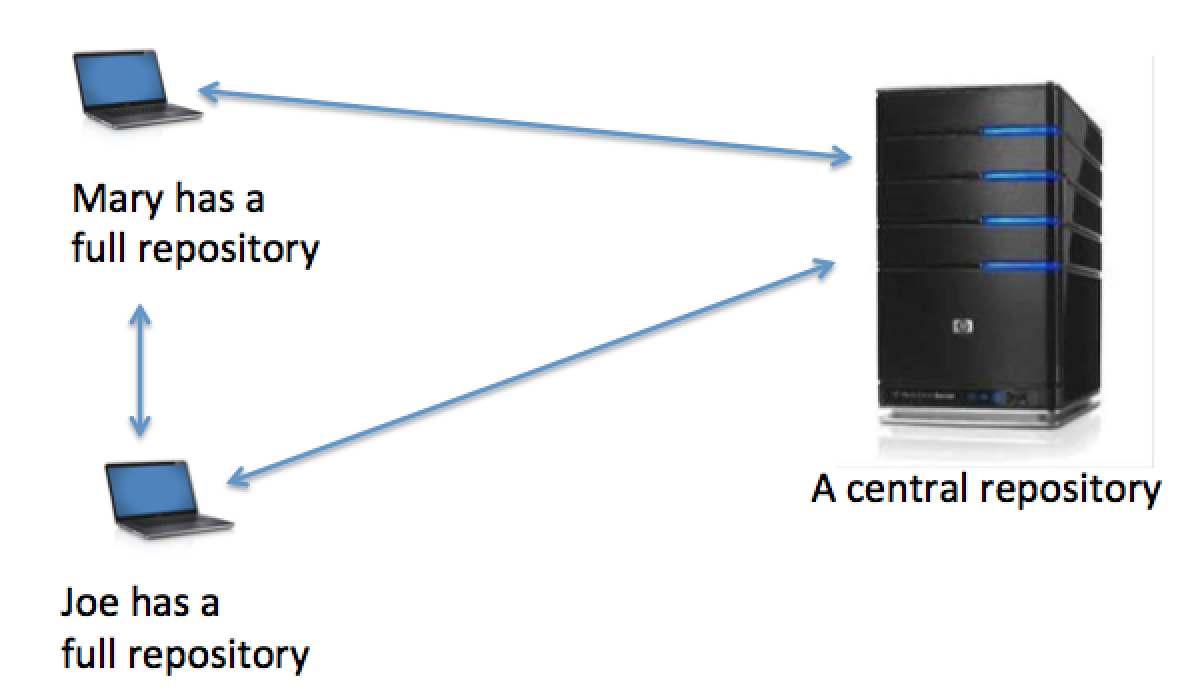
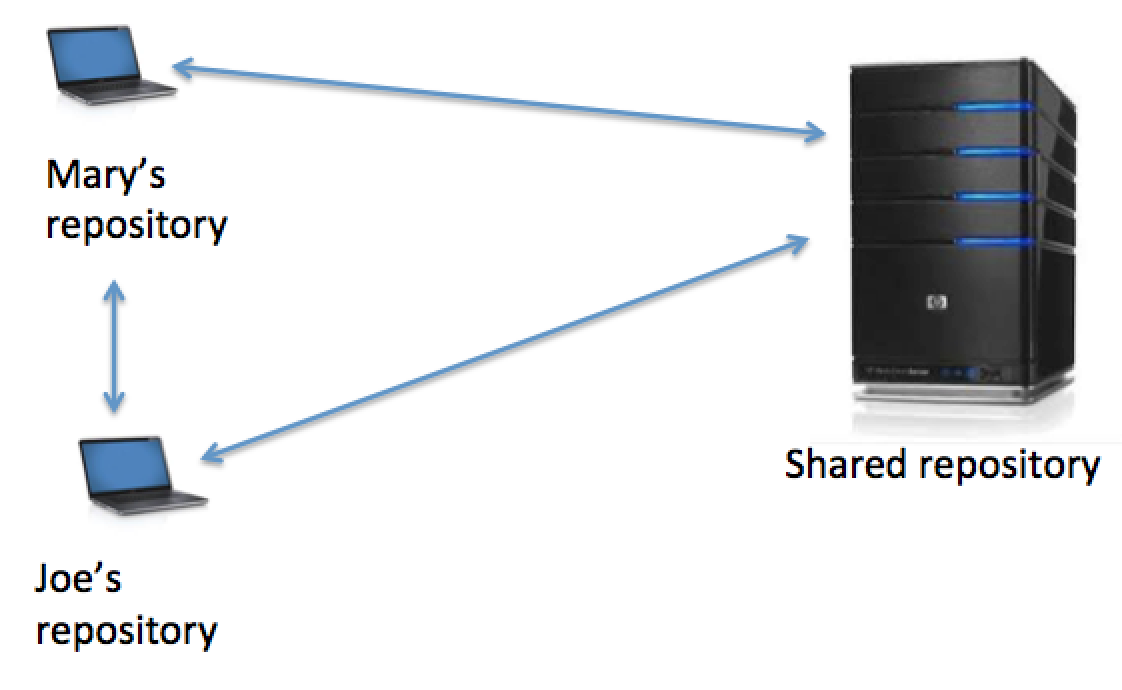
book generated and deployed at 02/08/2015-18:49:56

Changed region(s): [[0.0312, 0.0304, 0.9982, 0.7913], [0.0312, 0.8217, 0.2807, 0.9739]]

diff --git a/Appendix_A.html b/Appendix_A.html
@@ -4,7 +4,7 @@
 <meta http-equiv="Content-Type" content="text/html; charset=UTF-8">
 <meta name="generator" content="Asciidoctor 0.1.4">
 <meta name="viewport" content="width=device-width, initial-scale=1.0">
-<title>Appendix. Version Control and Publishing Code to GitHub</title>
+<title>Appendix. Basics of the Version Control System Git</title>
 <style>
 /*! normalize.css v2.1.2 | MIT License | git.io/normalize */
 /* ========================================================================== HTML5 display definitions ========================================================================== */
@@ -487,19 +487,16 @@ p { margin-bottom: 1.25rem; }
 </div>
 <div id="content">
 <div class="sect1">
-<h2 id="_appendix-version-control-and-publishing-code-to-github"><a class="anchor" href="#_appendix-version-control-and-publishing-code-to-github"></a>Appendix. Version Control and Publishing Code to GitHub</h2>
+<h2 id="_appendix-basics-of-the-version-control-system-git"><a class="anchor" href="#_appendix-basics-of-the-version-control-system-git"></a>Appendix. Basics of the Version Control System Git</h2>
 <div class="sectionbody">
 <div class="paragraph">
 <p>So you wrote you great application, and it worked as expected. Sometime later you&#8217;ve got an idea how to make it even better. After several hours of making changes in your code you&#8217;ve noticed that the application has new bugs in the code that was working fine yesterday. But where is that yesterday&#8217;s version of the code that was working fine? Can you undo (<em>rollback</em>) the latest changes that broke the code?</p>
 </div>
 <div class="paragraph">
-<p>Many years ago programmers simply were creating backup copies of their code now and then. After some time their hard drives and USB drives would have multiple folders named like <em>TicTacToe_Feb_1</em>, <em>TicTacToe_Feb_5</em>, <em>TicTacToe_Feb_20</em> an so on.</p>
+<p>Many years ago programmers simply were creating backup copies of their code now and then. After some time their hard drives and USB drives would have multiple folders named like <em>TicTacToe_Feb_1</em>, <em>TicTacToe_Feb_5</em>, <em>TicTacToe_Feb_20</em> an so on. But programmers often work in teams, and what if Joe and Mary are working on the same application? How to make sure that Joe&#8217;s and Mary&#8217;s computers have the working copy of the application with the ability to keep the history of code changes and rollback to a working version if need be?</p>
 </div>
 <div class="paragraph">
-<p>But programmers often work in teams, and what if Joe and Mary are working on the same application? How to make sure that Joe&#8217;s and Mary&#8217;s computers have the working copy of the application with the ability to keep the history of code changes and rollback to a working version if need be?</p>
-</div>
-<div class="paragraph">
-<p>There are special web hosting facilities called <em>source code repositories</em>, where Joe and Mary can safely keep their application code. There is also a special software called <em>version control systems</em> that allows to keep track of different versions of the source code stored in such common repositories.</p>
+<p>There are special web hosting facilities called <em>source code repositories</em>, where Joe and Mary can safely keep their application code. There is also a special software called Version Control Systems (VCS) that allows to keep track of different versions of the source code stored in such common repositories.</p>
 </div>
 <div class="paragraph">
 <p>Software developers make changes in their local copies of the application&#8217;s code, and test them. When they believe that their local version of the application works fine, they <em>commit</em> their latest code to the source code repository. If Mary has committed her changes, Joe can <em>check out</em> the latest code from the repository to his computer. Mary&#8217;s changes are merged with Joe&#8217;s ones on his computer.</p>
@@ -508,13 +505,13 @@ p { margin-bottom: 1.25rem; }
 <p>At this point Joe has the latest Mary&#8217;s code, but she doesn&#8217;t have the latest Joe&#8217;s code changes. WHen Joe decides to commit his latest code to the repository, Mary can check them out to her computer.</p>
 </div>
 <div class="paragraph">
-<p>In this appendix I&#8217;ll explain how to work with a popular version control system called Git, and with a code hosting
-facility called GitHub. Version control systems are used by programmers writing code in any languages, not only in Java. I can tell you more - I was using Git as a repository of the drafts of all chapters of this book, and you can find them on the GitHub at <a href="https://github.com/yfain/Java4Kids_NoStarchPress">https://github.com/yfain/Java4Kids_NoStarchPress</a>.  But understanding how version control systems works is very important - that&#8217;s why I included this Appendix in the book about Java.</p>
+<p>In this appendix I&#8217;ll introduce you to a popular VCS called Git, and to the code hosting
+facility called GitHub. Version control systems are used by programmers writing code in any languages, not only in Java. I can tell you more - I was using Git as a repository of the drafts of all chapters of this book, and you can find them on the GitHub at <a href="https://github.com/yfain/Java4Kids_NoStarchPress">https://github.com/yfain/Java4Kids_NoStarchPress</a>.  But understanding how VCS works is very important - that&#8217;s why I included this Appendix in the book about Java.</p>
 </div>
 <div class="sect2">
 <h3 id="_two-types-of-version-control-systems"><a class="anchor" href="#_two-types-of-version-control-systems"></a>Two Types of Version Control Systems</h3>
 <div class="paragraph">
-<p>There are two types of version control systems: centralized and distributed. With centralized systems the source code repository is stored a server that has the latest version of the application as well as all historical files committed by developers in the past.</p>
+<p>There are two types of VCS: centralized and distributed. With centralized systems the source code repository is stored a server that has the latest version of the application as well as all historical files committed by developers in the past.</p>
 </div>
 <div id="FIG14-1" class="imageblock">
 <div class="content">
@@ -522,10 +519,10 @@ facility called GitHub. Version control systems are used by programmers writing 
 </div>
 </div>
 <div class="paragraph">
-<p>If Pete, the new programmer, joins the team, he&#8217;d need to check out the latest code from the repository and start making his code modifications on his computer. Some popular centralized version control systems are CVS, SVN, Perforce.</p>
+<p>If Pete, the new programmer, joins the team, he&#8217;d need to check out the latest code from the repository and start making his code modifications on his computer. Some popular centralized VCS are CVS, SVN, Perforce.</p>
 </div>
 <div class="paragraph">
-<p>Distributed version control systems store the latest version of the code as well as all historical files on each programmer&#8217;s computer. Popular distributed version control systems are Git, Mercurial, and Bazaar. We&#8217;ll use Git. Technically, if you work alone, you can install Git on your computer and have your private a version control system. But we usually work in teams, so the following diagram shows three computers - one central repository on the right and to local repositories (Mary&#8217;s and Joe&#8217;s) on the left.</p>
+<p>Distributed VCS store the latest version of the code as well as all historical files on each programmer&#8217;s computer. Popular distributed VCS are Git, Mercurial, and Bazaar. We&#8217;ll use Git. Technically, if you work alone, you can install Git on your computer and have your private VCS. But we usually work in teams, so the following diagram shows three computers - one shared repository on the right and to local repositories (Mary&#8217;s and Joe&#8217;s) on the left.</p>
 </div>
 <div id="FIG14-2" class="imageblock">
 <div class="content">
@@ -533,19 +530,20 @@ facility called GitHub. Version control systems are used by programmers writing 
 </div>
 </div>
 <div class="paragraph">
-<p>Each repository has all historical updates made by Joe and Mary. With centralized version control systems Mary and Joe can exchange code only through the central repository, but with distributed systems they can exchange the code directly. Let&#8217;s see how to create the code repository of your computer that&#8217;s controlled by Git.</p>
+<p>Each repository has all historical updates made by Joe and Mary. With centralized VCS Mary and Joe can exchange code only through the central repository, but with distributed systems they can exchange the code directly. Let&#8217;s see how to create the code repository of your computer that&#8217;s controlled by Git.</p>
 </div>
 </div>
 <div class="sect2">
 <h3 id="_introduction-to-git"><a class="anchor" href="#_introduction-to-git"></a>Introduction to Git</h3>
 <div class="paragraph">
-<p>Git is a free distributed version control system, which you should download and install from <a href="http://git-scm.com">http://git-scm.com</a>. There is a chance that your computer already have Git installed, and you can see if this is the case by opening a Command or Terminal window and entering the <em>git</em> command. If you see a list of available Git commands, you already have it. But still, I&#8217;d suggest to install the latest Git version by following <a href="http://git-scm.com/book/en/v2/Getting-Started-Installing-Git">these instructions</a> for your operational system.</p>
+<p>Git is a free distributed VCS, which you can download and install from <a href="http://git-scm.com">http://git-scm.com</a>. There is a chance that your computer already has Git installed, and you can check it out by opening a Command or Terminal window and typing the command <em>git</em> followed by pressing the Enter key. If these actions print a list of available Git commands, you already have Git installed.
+But still, I&#8217;d suggest to install the latest Git version by following <a href="http://git-scm.com/book/en/v2/Getting-Started-Installing-Git">these instructions</a> for your operational system.</p>
 </div>
 <div class="paragraph">
-<p>There are several GUI tools created for working with Git repositories, but we&#8217;ll be using simple Command or Terminal window for performing all commands. After the installation is complete, enter the command <em>git --version</em>, and you&#8217;ll see which version of Git you have. At the time of this writing it&#8217;s 2.3.</p>
+<p>There are several GUI tools created for working with Git repositories, but we&#8217;ll be using simple Command or Terminal window for performing all commands. After the installation is complete, enter the command <em>git --version</em>, and you&#8217;ll see which version of Git you have.</p>
 </div>
 <div class="paragraph">
-<p>The next step is to introduce yourself to Git by providing your name and the email address. Typically you&#8217;ll be running the <em>git</em> program followed by the command name, which may have various options that start with <em>--</em> or <em>-</em>. To introduce yourself to Git, use the <em>config</em> command with the <em>--global</em> option.</p>
+<p>The next step is to introduce yourself to Git by providing your name and the email address. Typically you&#8217;ll be running the <em>git</em> program followed by the command name, which may have various options that start with <em>--</em> or <em>-</em>. To introduce yourself to Git, use the <em>config</em> command with the <em>--global</em> option. This is how I did it:</p>
 </div>
 <div class="listingblock">
 <div class="content">
@@ -554,19 +552,162 @@ git config --global user.email "yakovfain@gmail.com"</code></pre>
 </div>
 </div>
 <div class="paragraph">
-<p>Committing code to Git</p>
+<p>Later on, when you&#8217;ll be opening a GitHub account you&#8217;ll need to use the same email as you used with the <em>config</em> command above. The Git is ready to manage your projects. Now let&#8217;s create a Git repository for a specific project and learn how to work with it.</p>
 </div>
 </div>
 <div class="sect2">
-<h3 id="_branching"><a class="anchor" href="#_branching"></a>Branching</h3>
+<h3 id="_creating-a-new-git-repository"><a class="anchor" href="#_creating-a-new-git-repository"></a>Creating a New Git Repository</h3>
 <div class="paragraph">
-<p>You may ask, "What if Mary want to add a new feature to the application, but she&#8217;s afraid that her new code may introduce bugs in the working code?" There is a solution to this - Mary can create her own <em>branch</em> which will keep her experimental code separately. Every new feature can live in its own branch.</p>
+<p>For showing you how to use Git, I&#8217;ll create a new folder called <em>gitIntro</em> and will copy there the files <em>Pet.java</em>, <em>Fish.java</em>, and <em>PetMaster.java</em> from Chapter 3. Then I&#8217;ve opened a Terminal window and created a Git repository by entering the command <em>git init</em>. Now the content of my <em>gitIntro</em> folder looked as follows:</p>
+</div>
+<div id="FIG14-3" class="imageblock">
+<div class="content">
+<img src="./images/fig_14_git_init.png" alt="fig 14 git init">
+</div>
+</div>
+<div class="paragraph">
+<p>Now it has my Java classes and a directory called <em>.git</em>, which is a Git repository for my <em>gitIntro</em> project. This directory contains a database to store all the changes I&#8217;ll be making to my Java classes plus the information about the code branches that we&#8217;ll discuss a bit later.</p>
+</div>
+</div>
+<div class="sect2">
+<h3 id="_selected-git-commands"><a class="anchor" href="#_selected-git-commands"></a>Selected Git Commands</h3>
+<div class="paragraph">
+<p>Git has a couple of dozens commands, but knowing just a half dozen of commands may be enough for your projects. I&#8217;ll you several commands that I use daily. Each command may be issued with several options. I&#8217;ll just show you simple ways to run the commands that will get you started with Git. For more detailed coverage of all Git features and commands you&#8217;ll need to study <a href="http://git-scm.com/doc">online documentation</a>.</p>
+</div>
+<div class="sect3">
+<h4 id="_the-status-command"><a class="anchor" href="#_the-status-command"></a>The status Command</h4>
+<div class="paragraph">
+<p>I always start working with Git by opening my project directory and typing <em>git status</em>. Let&#8217;s do the same in the directory <em>gitIntro</em>. I&#8217;ve never committed to my brand new code repository yet, and Git will respond with the following status:</p>
+</div>
+<div id="FIG14-4" class="imageblock">
+<div class="content">
+<img src="./images/fig_14_git_status.png" alt="fig 14 git status">
+</div>
+</div>
+<div class="paragraph">
+<p>Note the first statement indicating that I work with the code branch called master. At this point I have no any other branches. The file names are displayed in red, which means that they are either new to Git or have been modified after the last commit to the repository.</p>
+</div>
+</div>
+<div class="sect3">
+<h4 id="_the-add-command"><a class="anchor" href="#_the-add-command"></a>The add Command</h4>
+<div class="paragraph">
+<p>Adding files to a Git repository is done by the command <em>add</em>. I was learning Git by watching training videos recorded by Git engineers, and they&#8217;ve compared the <em>add</em> command with the process of adding items to the shopping cart in a supermarket. There are lots of produce on the shelves, but you pick only selected ones by placing them into your cart. Similarly, you have lots of files in your folder(s), but you may want to add only selected ones to the git repository, for example <em>git add Fish.java</em>.</p>
+</div>
+<div class="paragraph">
+<p>You can also add all new or modified files in one shot by executing the command <em>git add --all</em>. After running this command you&#8217;ll get the following output:</p>
+</div>
+<div id="FIG14-5" class="imageblock">
+<div class="content">
+<img src="./images/fig_14_git_add_all.png" alt="fig 14 git add all">
+</div>
+</div>
+<div class="paragraph">
+<p>If you want to know which options exist for a command, jut enter <em>git --help</em> followed by a command name, for example, <em>git --help add</em>. To quit the help more just enter the letter <em>q</em> in the Command window.</p>
+</div>
+</div>
+<div class="sect3">
+<h4 id="_the-commit-command"><a class="anchor" href="#_the-commit-command"></a>The commit Command</h4>
+<div class="paragraph">
+<p>Now all Java files are shown in green, which means that these files are ready to be committed to the Git database. If we&#8217;ll continue using the analogy with a supermarket, committing is similar to paying for the items in your shopping cart.</p>
+</div>
+<div class="paragraph">
+<p>But when you pay at the cash register, you get a receipt, right? On the same note, when you issue a <em>commit</em> command you need to write a comment about what are you committing. Programmers make multiple commits over the life of each project, and such comments represent sort of a log that indicates the progress.</p>
+</div>
+<div class="paragraph">
+<p>For example, you can issue a command <em>git commit -m "initial commit of the classes Fish, Pet, and PetMaster"</em>. The <em>-m</em> option means that a message describing the commit follows in the double quotes.</p>
+</div>
+<div id="FIG14-6" class="imageblock">
+<div class="content">
+<img src="./images/fig_14_git_commit.png" alt="fig 14 git commit">
+</div>
+</div>
+<div class="paragraph">
+<p>If you&#8217;ll enter the command <em>git status</em> again you&#8217;ll see the massage that there is nothing to commit. No wonder, I just committed three files and haven&#8217;t modified them yet.</p>
+</div>
+<div id="FIG14-7" class="imageblock">
+<div class="content">
+<img src="./images/fig_14_git_nothing_to_commit.png" alt="fig 14 git nothing to commit">
+</div>
+</div>
+<div class="paragraph">
+<p>Now let me make a small change in the file <em>PetMaster.java</em> - I&#8217;ll just modify a comment at the top of this file. Initially the comment read "Created by NewProgrammer on 3/28/15." I&#8217;ll change the text to "Created by Yakov on 3/28/15." Running the <em>git status</em> command again will produce a different output:</p>
+</div>
+<div id="FIG14-8" class="imageblock">
+<div class="content">
+<img src="./images/fig_14_git_status_changed.png" alt="fig 14 git status changed">
+</div>
+</div>
+<div class="paragraph">
+<p>Git knows that the <em>PetMaster.java</em> has been changed, but until I issue the command <em>add</em> for this file (or all files), Git won&#8217;t track the changes in the current version of <em>PetMaster.java</em>. In the supermarket setup, it&#8217;s a situation when the product is displayed on the shelf, but has not been added to your shopping cart yet. The following two commands will save my latest change in the Git database (a.k.a. index):</p>
+</div>
+<div class="listingblock">
+<div class="content">
+<pre class="highlight"><code class="html language-html">git add PetMaster.java
+git commit -m "Modified the opening comment in PetMaster.java"</code></pre>
+</div>
+</div>
+<div class="paragraph">
+<p>After committing all the changes <em>git status</em> will tell us again that there is nothing to commit, and the working directory is clean.</p>
+</div>
+<div class="paragraph">
+<p>To summarize, we have three Java classes located in our working directory <em>gitIntro</em>, and the history of modifications and commits located in the directory <em>.git</em>.
+I also want to stress, that so far all the work we&#8217;ve done was saved in the local code repository.</p>
+</div>
+</div>
+<div class="sect3">
+<h4 id="_the-reset-command"><a class="anchor" href="#_the-reset-command"></a>The reset Command</h4>
+<div class="paragraph">
+<p>Here&#8217;s another situation to consider. I just committed the changes to the file <em>PetMaster.java</em> and got goose bumps. Suddenly I realized that it was a mistake, and I wanted to undo the last commit. If you remember, the file <em>PetMaster.java</em> has an opening statement "Created by Yakov on 3/28/15." But Git stores the changes as they were made in its database. Let&#8217;s undo the action done with the last commit.</p>
+</div>
+<div class="paragraph">
+<p>When you&#8217;ll be trying to repeat all these commands open the file <em>PetMaster.java</em> and note the text of its opening comment, because it&#8217;s going to change right after the next command.</p>
+</div>
+<div class="listingblock">
+<div class="content">
+<pre class="highlight"><code class="html language-html">git reset HEAD</code></pre>
+</div>
+</div>
+<div class="paragraph">
+<p>The <em>reset</em> command will undo the last commit and will open a text editor containing the description of that commit, which can look like this:</p>
+</div>
+<div class="listingblock">
+<div class="content">
+<pre class="highlight"><code class="html language-html">Revert "modified the opening comment in PetMaster.java"
+
+This reverts commit 6e18f1c5f437650c1a115c9875403fb9d081f15d.
+
+# Please enter the commit message for your changes. Lines starting
+# with '#' will be ignored, and an empty message aborts the commit.
+# On branch master
+# Changes to be committed:
+#	modified:   PetMaster.java
+#</code></pre>
+</div>
+</div>
+<div class="paragraph">
+<p>You can change this text to better describe what has been done by this command. Git will store the saved message in its history files. The long sequence of digits and letters is a unique number in a hexadecimal format, which is associated with each commit.</p>
+</div>
+</div>
+<div class="sect3">
+<h4 id="_branching-commands"><a class="anchor" href="#_branching-commands"></a>Branching Commands</h4>
+<div class="paragraph">
+<p>You may ask, "What if Mary wants to add a new feature to the application, but she&#8217;s afraid that her new code may introduce bugs in the working code?" There is a solution to this - Mary can create her own <em>branch</em> which will keep her experimental code separately.</p>
+</div>
+</div>
+<div class="sect3">
+<h4 id="_push-and-pull"><a class="anchor" href="#_push-and-pull"></a>Push and Pull</h4>
+<div class="paragraph">
+<p>If you have a shared Git repository on a remote computer, once in a while you&#8217;ll need to synchronize the content from your local Git repository with remote one, which may be used by other members of the team. I wrote "maybe" because even if you work on the project alone, you may want to have an extra copy of your Git repository in the remote computer.</p>
+</div>
+<div class="paragraph">
+<p>The process of downloading of the latest code from the shared repository to your computer is called <em>pull</em>.</p>
+</div>
+<div class="paragraph">
+<p>The process of uploading your latest code to the shared repository is called <em>push</em>. So you commit to a local Git repository, and push to the remote one.</p>
+</div>
 </div>
 <div class="sect3">
 <h4 id="_conflict-resolution"><a class="anchor" href="#_conflict-resolution"></a>Conflict resolution</h4>
-</div>
-<div class="sect3">
-<h4 id="_how-to-rollback-to-the-previous-version"><a class="anchor" href="#_how-to-rollback-to-the-previous-version"></a>How to Rollback to the Previous Version</h4>
 <div class="paragraph">
 <p>You can find more detailed explanations of all Git features in the free book titled <a href="http://git-scm.com/book/en/v2">Pro Git</a> published by Apress.</p>
 </div>
@@ -624,7 +765,7 @@ Note that this project directory has a folder named <em>.git</em>, which contain
 </div>
 <div id="footer">
 <div id="footer-text">
-Last updated 2015-02-07 12:22:07 EST
+Last updated 2015-02-08 18:46:10 EST
 </div>
 </div>
 </body>
